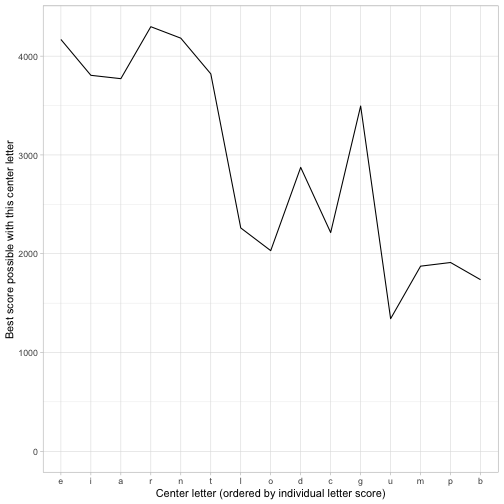
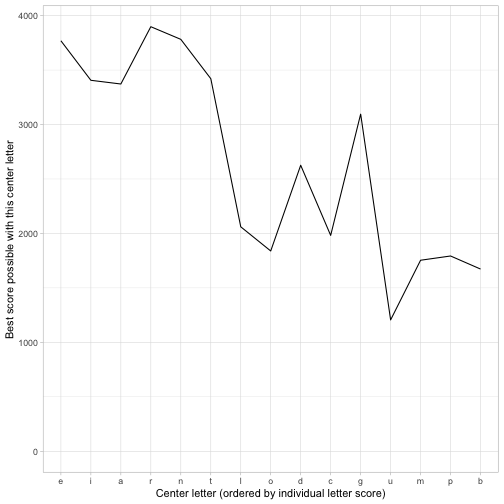
Caught and fixed a bug: was giving pangrams 15 bonus points instead of 7

diff --git a/_posts/2020-01-06-honeycomb-puzzle.md b/_posts/2020-01-06-honeycomb-puzzle.md
@@ -55,7 +55,7 @@ words <- tibble(word = read_lines("https://norvig.com/ngrams/enable1.txt")) %>%
          letters = map(letters, unique),
          unique_letters = lengths(letters)) %>%
   mutate(points = ifelse(word_length == 4, 1, word_length) +
-           15 * (unique_letters == 7)) %>%
+           7 * (unique_letters == 7)) %>%
   filter(unique_letters <= 7) %>%
   arrange(desc(points))
 
@@ -68,16 +68,16 @@ words
 ## # A tibble: 44,585 x 5
 ##    word             word_length letters   unique_letters points
 ##    <chr>                  <int> <list>             <int>  <dbl>
-##  1 antitotalitarian          16 <chr [7]>              7     31
-##  2 anticlimactical           15 <chr [7]>              7     30
-##  3 inconveniencing           15 <chr [7]>              7     30
-##  4 interconnection           15 <chr [7]>              7     30
-##  5 micrometeoritic           15 <chr [7]>              7     30
-##  6 nationalization           15 <chr [7]>              7     30
-##  7 nonindependence           15 <chr [7]>              7     30
-##  8 nonintervention           15 <chr [7]>              7     30
-##  9 nontotalitarian           15 <chr [7]>              7     30
-## 10 overengineering           15 <chr [7]>              7     30
+##  1 antitotalitarian          16 <chr [7]>              7     23
+##  2 anticlimactical           15 <chr [7]>              7     22
+##  3 inconveniencing           15 <chr [7]>              7     22
+##  4 interconnection           15 <chr [7]>              7     22
+##  5 micrometeoritic           15 <chr [7]>              7     22
+##  6 nationalization           15 <chr [7]>              7     22
+##  7 nonindependence           15 <chr [7]>              7     22
+##  8 nonintervention           15 <chr [7]>              7     22
+##  9 nontotalitarian           15 <chr [7]>              7     22
+## 10 overengineering           15 <chr [7]>              7     22
 ## # … with 44,575 more rows
 {% endhighlight %}
 
@@ -130,7 +130,7 @@ sum(honeycomb_words$points)
 ## [1] 153
 {% endhighlight %}
 
-Looks like the score is 153, and the pangram that uses all seven letters is AMALGAM.
+Looks like the score is 153.
 
 Could we use this `get_words()` function to brute force every possible honeycomb? Only if we had a lot of time on our hands. Since S is eliminated, there are 25 possible choices for the center letter, and $24\choose 6$ ("24 choose 6") possible combinations of outer letters, making `25 * choose(24, 6)` = **3.36 million possible honeycombs**. It would take about 8 days to test every one this way. We can do a lot better.
 
@@ -165,16 +165,16 @@ letters_summarized
 ## # A tibble: 25 x 3
 ##    letter n_words n_points
 ##    <chr>    <int>    <dbl>
-##  1 e        28203   356775
-##  2 i        21128   292785
-##  3 a        21719   281514
-##  4 r        20977   274395
-##  5 n        18735   262133
-##  6 t        16232   226985
-##  7 l        16503   216576
-##  8 o        16038   212751
-##  9 d        13894   179331
-## 10 c        11644   164720
+##  1 e        28203   275039
+##  2 i        21128   220473
+##  3 a        21719   214490
+##  4 r        20977   209803
+##  5 n        18735   197485
+##  6 t        16232   170953
+##  7 l        16503   164552
+##  8 o        16038   160863
+##  9 d        13894   137491
+## 10 c        11644   123224
 ## # … with 15 more rows
 {% endhighlight %}
 
@@ -234,9 +234,9 @@ head(points_per_word)
 
 {% highlight text %}
 ## antitotalitarian  anticlimactical  inconveniencing  interconnection 
-##               31               30               30               30 
+##               23               22               22               22 
 ##  micrometeoritic  nationalization 
-##               30               30
+##               22               22
 {% endhighlight %}
 
 At this point, we take a matrix multiplication approach to score all the honeycomb combinations. Since I went through it in the [screencast](https://www.youtube.com/watch?v=wFZhuQEfEYA), I won't walk through each of the steps except in the comments.
@@ -290,24 +290,24 @@ best_scores
 ## # A tibble: 15 x 3
 ##    center_letter other_letters score
 ##    <chr>         <chr>         <dbl>
-##  1 e             i,a,r,n,t,g    4169
-##  2 i             e,a,r,n,t,g    3806
-##  3 a             e,i,r,n,t,g    3772
-##  4 r             e,i,a,n,t,g    4298
-##  5 n             e,i,a,r,t,g    4182
-##  6 t             e,i,a,r,n,g    3821
-##  7 l             e,i,a,n,t,g    2261
-##  8 o             e,i,r,n,t,c    2031
-##  9 d             e,i,a,r,n,g    2874
-## 10 c             e,i,a,r,n,t    2214
-## 11 g             e,i,a,r,n,t    3495
-## 12 u             e,a,r,n,t,d    1342
-## 13 m             e,i,a,r,n,t    1874
-## 14 p             e,a,r,t,o,d    1911
-## 15 b             e,i,a,r,l,d    1737
+##  1 e             i,a,r,n,t,g    3769
+##  2 i             e,a,r,n,t,g    3406
+##  3 a             e,i,r,n,t,g    3372
+##  4 r             e,i,a,n,t,g    3898
+##  5 n             e,i,a,r,t,g    3782
+##  6 t             e,i,a,r,n,g    3421
+##  7 l             e,i,a,n,t,g    2061
+##  8 o             e,i,r,n,t,c    1839
+##  9 d             e,i,a,r,n,g    2626
+## 10 c             e,i,a,r,n,t    1982
+## 11 g             e,i,a,r,n,t    3095
+## 12 u             e,a,r,n,t,d    1206
+## 13 m             e,i,a,r,n,t    1754
+## 14 p             e,a,r,t,l,d    1793
+## 15 b             e,i,a,r,l,d    1673
 {% endhighlight %}
 
-It takes about a minute to try all combinations of the top 15 letters. This makes it clear: **the best combination is R in the center, and E, I, R, N, T, G surrounding it, for a total score of 4298**.
+It takes about a minute to try all combinations of the top 15 letters. This makes it clear: **the best combination is R in the center, and E, I, R, N, T, G surrounding it, for a total score of 3769**.
 
 ### How good was our heuristic at judging letters?
 
@@ -406,20 +406,20 @@ puzzle_solutions
 ## # A tibble: 55,902 x 3
 ##    combination   center score
 ##    <fct>         <fct>  <dbl>
-##  1 a,e,g,i,n,r,t r       4298
-##  2 a,e,g,i,n,r,t n       4182
-##  3 a,e,g,i,n,r,t e       4169
-##  4 a,d,e,i,n,r,t e       3832
-##  5 a,e,g,i,n,r,t t       3821
-##  6 a,e,g,i,n,r,t i       3806
-##  7 a,e,g,i,n,r,t a       3772
-##  8 a,d,e,g,i,n,r e       3519
-##  9 a,e,g,i,n,r,t g       3495
-## 10 a,d,e,g,i,n,r r       3484
+##  1 a,e,g,i,n,r,t r       3898
+##  2 a,e,g,i,n,r,t n       3782
+##  3 a,e,g,i,n,r,t e       3769
+##  4 a,d,e,i,n,r,t e       3672
+##  5 a,e,g,i,n,r,t t       3421
+##  6 a,e,g,i,n,r,t i       3406
+##  7 a,e,g,i,n,r,t a       3372
+##  8 a,d,e,g,i,n,r e       3271
+##  9 a,d,e,g,i,n,r r       3236
+## 10 a,d,e,i,l,r,t e       3194
 ## # … with 55,892 more rows
 {% endhighlight %}
 
-With this `scores` matrix, we can confirm our finding of the highest combination, center and score.  It also shows that the top three all have the same combination (but different center letters).
+With this `scores` matrix, we can confirm our finding of the highest combination, center and score.  It also shows that the top three puzzles all have the same combination (but different center letters).
 
 This is pretty fast (about 25 seconds for me), and runs without any heuristics. It also lets us discover the *worst* score!
 
@@ -435,20 +435,20 @@ puzzle_solutions %>%
 ## # A tibble: 55,902 x 3
 ##    combination   center score
 ##    <fct>         <fct>  <dbl>
-##  1 c,i,n,o,p,r,x x         22
-##  2 b,i,m,n,r,u,v v         23
-##  3 b,e,j,k,o,u,x x         23
-##  4 c,f,l,n,o,u,x x         23
-##  5 a,c,e,i,q,u,z z         23
-##  6 d,f,h,n,o,u,x x         24
-##  7 e,i,o,q,t,u,x x         24
-##  8 a,b,d,i,j,r,y j         25
-##  9 a,c,d,j,q,r,u q         25
-## 10 b,h,i,l,p,u,w w         25
+##  1 c,i,n,o,p,r,x x         14
+##  2 b,i,m,n,r,u,v v         15
+##  3 b,e,j,k,o,u,x x         15
+##  4 c,f,l,n,o,u,x x         15
+##  5 a,c,e,i,q,u,z z         15
+##  6 d,f,h,n,o,u,x x         16
+##  7 e,i,o,q,t,u,x x         16
+##  8 a,b,d,i,j,r,y j         17
+##  9 a,c,d,j,q,r,u q         17
+## 10 b,h,i,l,p,u,w w         17
 ## # … with 55,892 more rows
 {% endhighlight %}
 
-This reveals that there's only *one* combination, `c,i,n,o,p,r,x` with center letter `x`, that has the minimum possible Spelling Bee score: a single 7-letter pangram where the combination offers no other words. (If you're interested, the word is "princox").
+This reveals that there's only *one* combination, `c,i,n,o,p,r,x` with center letter `x`, that has the minimum possible Spelling Bee score of 14: a single 7-letter pangram where the combination offers no other words. (If you're interested, the word is "princox").
 
 ### Conclusion
 
